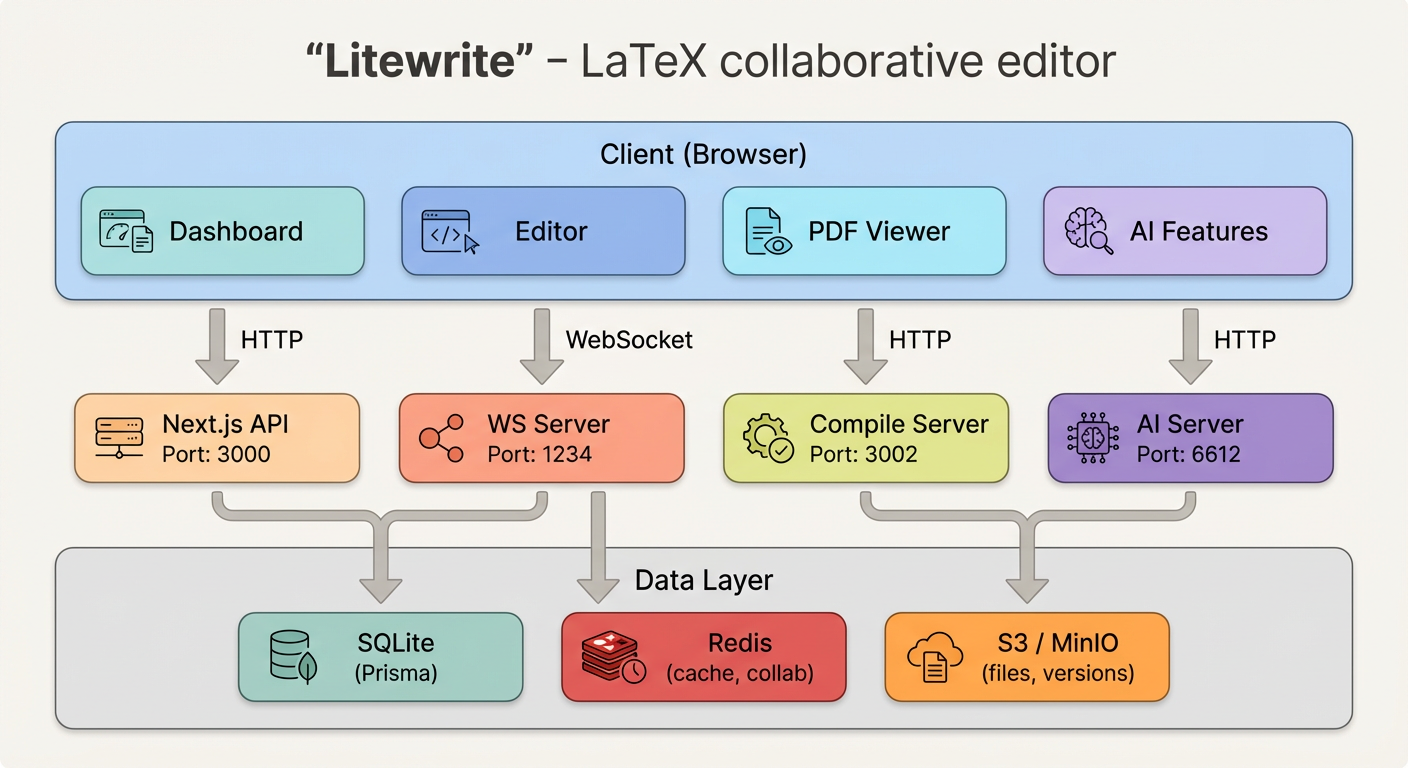
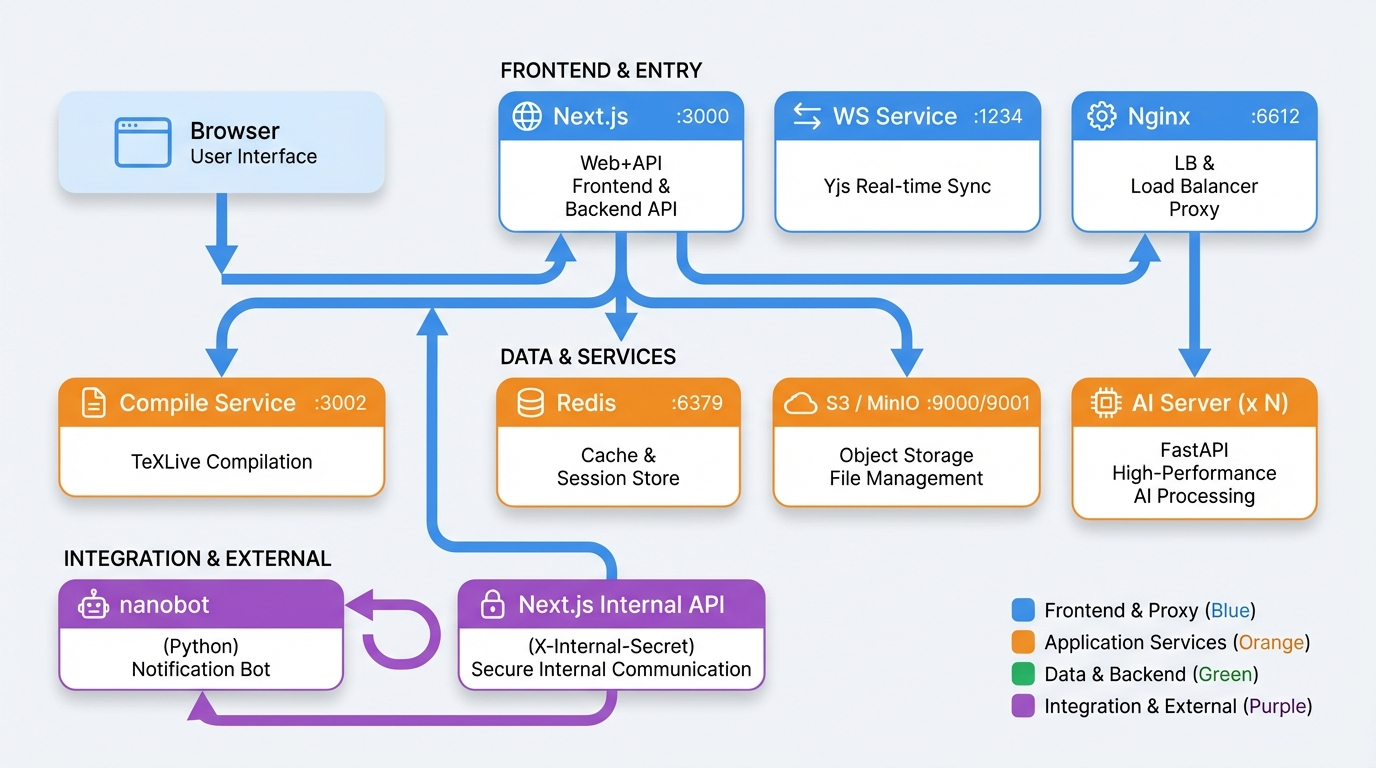
docs: replace ASCII diagrams with images, add nanobot demo GIF and polish
- Replace all ASCII architecture diagrams with actual images
  (Architecture.png, AIServer.png, MainAgent.png, DeepResearch.png, nanobot.png)
- Add nanobot-demo.gif moved to below Features as hero content
- Simplify News section to bullet list with actual dates
- Add Contributors section with contrib.rocks widget
- Add Star History chart with dark/light theme support
- Add visitor badge and updated footer
- Remove License section (covered by badge), streamline ending

diff --git a/README.md b/README.md
@@ -40,23 +40,11 @@
 
 ---
 
-<!-- nanobot demo GIF — eye-catching hero content -->
-<p align="center">
-  <img src="public/screenshots/nanobot-demo.gif" alt="nanobot Demo — Chat with your LaTeX projects from Telegram" width="720" />
-</p>
-<p align="center"><em>💬 Chat with your LaTeX projects from Telegram — edit, compile, and get PDFs in seconds</em></p>
-
----
-
 ## 📰 News
 
-| Date | Update |
-|------|--------|
-| **2025-02** | 🤖 **nanobot integration** — Manage LaTeX projects from Telegram & Feishu via AI assistant ([setup guide](nanobot/DEPLOYMENT.md)) |
-| **2025-02** | 🧠 **Agent Mode** — Full autonomous editing with ReAct-style agent, SubAgent delegation, and multi-file edits |
-| **2025-01** | 🔍 **Deep Research** — Multi-iteration arXiv + web search with structured report generation and BibTeX |
-| **2025-01** | ⚡ **TAP Completion** — Ghost-text AI completion as you type, Copilot-like experience for LaTeX |
-| **2024-12** | 🚀 **Litewrite v1.0** — Initial open-source release with real-time collaboration, LaTeX compilation, and AI chat |
+
+- **2026-02-10** 🤖 **nanobot integration** — Manage projects from Telegram & Feishu via AI assistant ([setup guide](nanobot/DEPLOYMENT.md))
+- **2026-02-03** 🎉 **Litewrite v1.0.7** — Initial open-source release with real-time collaboration, LaTeX compilation, and AI chat
 
 ---
 
@@ -70,7 +58,14 @@
 
 🔍 **Deep Research** — AI conducts in-depth research and auto-generates reports. Research while you write!
 
-📱 **nanobot** — Chat with your LaTeX projects from Telegram or Feishu. Compile, edit, and manage — all from your phone!
+📱 **nanobot** — Chat with your projects from IM apps. Compile, edit, and manage — all from your phone!
+
+---
+
+<p align="center">
+  <img src="public/screenshots/nanobot-demo.gif" alt="nanobot Demo — Chat with your projects from Telegram" width="720" />
+</p>
+<p align="center"><em>💬 Chat with your projects from IM apps</em></p>
 
 ---
 
@@ -127,42 +122,9 @@
 
 Litewrite is a microservices architecture with 6 core services communicating over a Docker network.
 
-<!-- TODO: Replace with architecture image -->
 <p align="center">
   <img src="public/Architecture.png" alt="Litewrite Architecture" width="800" />
 </p>
-
-```
-                                ┌──────────────┐
-                                │   Browser    │
-                                └──────┬───────┘
-                                       │
-                          ┌────────────┼────────────┐
-                          │            │            │
-                          ▼            ▼            ▼
-                    ┌──────────┐ ┌──────────┐ ┌──────────┐
-                    │ Next.js  │ │    WS    │ │  Nginx   │
-                    │  :3000   │ │  :1234   │ │  :6612   │
-                    │ Web+API  │ │ Yjs Sync │ │ LB Proxy │
-                    └────┬─────┘ └──────────┘ └────┬─────┘
-                         │                         │
-              ┌──────────┼──────────┐              │
-              │          │          │              │
-              ▼          ▼          ▼              ▼
-        ┌──────────┐ ┌──────┐ ┌──────────┐  ┌──────────┐
-        │ Compile  │ │Redis │ │  S3/MinIO │  │AI Server │
-        │  :3002   │ │:6379 │ │:9000/9001│  │  (x N)   │
-        │ TeXLive  │ │      │ │          │  │  FastAPI  │
-        └──────────┘ └──────┘ └──────────┘  └──────────┘
-
-        ┌──────────┐
-        │ nanobot  │──► Telegram / Feishu
-        │ (Python) │◄── User Messages
-        └────┬─────┘
-             │
-             ▼
-        Next.js Internal API (X-Internal-Secret)
-```
 
 | Service | Port | Technology | Role |
 |---------|------|------------|------|
@@ -181,26 +143,9 @@ Litewrite is a microservices architecture with 6 core services communicating ove
 
 Litewrite's AI capabilities are powered by a modular Agent system built on Python FastAPI. The architecture follows a **MainAgent + SubAgent** orchestration pattern with a unified Tool layer.
 
-<!-- TODO: Replace with AI architecture image -->
-
-```
-┌─────────────────────────────────────────────────────────────────────┐
-│                         AI Server (FastAPI)                         │
-├─────────────────────────────────────────────────────────────────────┤
-│                                                                     │
-│  ┌─────────────┐   ┌─────────────┐   ┌─────────────────────────┐   │
-│  │     TAP     │   │Deep Research│   │     Agent System        │   │
-│  │ Completion  │   │   Service   │   │  (Ask / Agent Mode)     │   │
-│  └──────┬──────┘   └──────┬──────┘   └───────────┬─────────────┘   │
-│         │                 │                      │                  │
-│         ▼                 ▼                      ▼                  │
-│  ┌─────────────────────────────────────────────────────────────┐   │
-│  │                      LLM Router (OpenRouter)                 │   │
-│  │            Multi-model support: GPT-4o, Claude, Gemini       │   │
-│  └─────────────────────────────────────────────────────────────┘   │
-│                                                                     │
-└─────────────────────────────────────────────────────────────────────┘
-```
+<p align="center">
+  <img src="public/AIServer.png" alt="Litewrite AI Architecture" width="800" />
+</p>
 
 ### ⚡ TAP Completion (Type-Ahead Prediction)
 
@@ -217,32 +162,9 @@ Ghost-text AI completion as you type, similar to GitHub Copilot.
 
 The Agent system uses a **ReAct-style** loop with tool calling for complex writing tasks.
 
-<!-- TODO: Replace with Agent architecture image -->
-
-```
-┌──────────────────────────────────────────────────────────────────┐
-│                          MainAgent                                │
-│  ┌────────────────────────────────────────────────────────────┐  │
-│  │  System Prompt + <context> + <goal> + <execution_log>      │  │
-│  └────────────────────────────────────────────────────────────┘  │
-│                              │                                    │
-│                              ▼                                    │
-│  ┌────────────────────────────────────────────────────────────┐  │
-│  │                    Agent Loop (ReAct)                       │  │
-│  │  1. Reason: Analyze context and decide next action          │  │
-│  │  2. Act: Call tool (read/edit/search/plan/task)             │  │
-│  │  3. Observe: Process tool result                            │  │
-│  │  4. Repeat until done                                       │  │
-│  └────────────────────────────────────────────────────────────┘  │
-│                              │                                    │
-│          ┌───────────────────┼───────────────────┐               │
-│          ▼                   ▼                   ▼               │
-│  ┌──────────────┐   ┌──────────────┐   ┌──────────────┐          │
-│  │  SubAgent:   │   │  SubAgent:   │   │  SubAgent:   │          │
-│  │  EditAgent   │   │  ReadAgent   │   │ResearchAgent │          │
-│  └──────────────┘   └──────────────┘   └──────────────┘          │
-└──────────────────────────────────────────────────────────────────┘
-```
+<p align="center">
+  <img src="public/MainAgent.png" alt="Litewrite Main Agent Architecture" width="800" />
+</p>
 
 **Mode-based Tool Availability:**
 
@@ -267,38 +189,9 @@ The Agent system uses a **ReAct-style** loop with tool calling for complex writi
 
 Multi-source research with automatic report generation.
 
-<!-- TODO: Replace with Deep Research image -->
-
-```
-User Query
-    │
-    ▼
-┌─────────────────────────────────┐
-│     Parallel Search Stage       │
-│  ┌───────────┐  ┌───────────┐  │
-│  │  arXiv    │  │   Web     │  │
-│  │  Search   │  │  Search   │  │
-│  └─────┬─────┘  └─────┬─────┘  │
-│        └──────┬───────┘        │
-└───────────────┼────────────────┘
-                ▼
-┌─────────────────────────────────┐
-│    Knowledge Gap Analysis       │
-│  - Assess current knowledge     │
-│  - Decide if follow-up needed   │
-│  - Up to N iterations           │
-└───────────────┬─────────────────┘
-                ▼
-┌─────────────────────────────────┐
-│   Report Generation (Streaming) │
-│  - Structured outline           │
-│  - Section-by-section writing   │
-│  - Inline citations             │
-└───────────────┬─────────────────┘
-                ▼
-        Research Report
-     (with BibTeX references)
-```
+<p align="center">
+  <img src="public/DeepResearch.png" alt="Litewrite Deep Research" width="800" />
+</p>
 
 ### 🔧 Unified Tool Layer
 
@@ -330,21 +223,9 @@ nanobot is an AI assistant that connects messaging platforms (Telegram, Feishu/L
 
 <!-- TODO: Replace with nanobot architecture image -->
 
-```
-┌──────────┐     Long Polling    ┌──────────────┐   Internal API    ┌──────────────┐
-│ Telegram │ ◄─────────────────► │              │ ────────────────► │  Litewrite   │
-│  User    │                     │   nanobot    │                   │  Web (Next)  │
-├──────────┤     WebSocket       │  (Python)    │                   └──────┬───────┘
-│  Feishu  │ ◄─────────────────► │              │                          │
-│  User    │                     └──────┬───────┘                          │
-└──────────┘                            │                                  │
-                                        │ LLM API                         │ Compile
-                                        ▼                                  ▼
-                                  ┌──────────┐                      ┌──────────────┐
-                                  │ OpenRouter│                      │   Compile    │
-                                  │  / LLM   │                      │   Server     │
-                                  └──────────┘                      └──────────────┘
-```
+<p align="center">
+  <img src="public/nanobot.png" alt="Litewrite nanobot Architecture" width="800" />
+</p>
 
 ### 🛠 Key Capabilities
 
@@ -680,6 +561,12 @@ git push origin feature/your-feature
 # Open a Pull Request
 ```
 
+### Contributors
+
+<a href="https://github.com/HKUDS/litewrite/graphs/contributors">
+  <img src="https://contrib.rocks/image?repo=HKUDS/litewrite&max=100&columns=12&updated=20260210" alt="Contributors" />
+</a>
+
 ---
 
 ## 🙏 Acknowledgments
@@ -697,16 +584,21 @@ Litewrite is built on the shoulders of giants:
 
 ---
 
-## 📄 License
+## ⭐ Star History
 
-This project is licensed under **AGPL-3.0-only**. See [`LICENSE`](./LICENSE) for details.
-
-**TL;DR:** You can use, modify, and distribute this software, but if you run a modified version as a service, you must release your source code.
-
----
+<div align="center">
+  <a href="https://star-history.com/#HKUDS/litewrite&Date">
+    <picture>
+      <source media="(prefers-color-scheme: dark)" srcset="https://api.star-history.com/svg?repos=HKUDS/litewrite&type=Date&theme=dark" />
+      <source media="(prefers-color-scheme: light)" srcset="https://api.star-history.com/svg?repos=HKUDS/litewrite&type=Date" />
+      <img alt="Star History Chart" src="https://api.star-history.com/svg?repos=HKUDS/litewrite&type=Date" style="border-radius: 15px; box-shadow: 0 0 30px rgba(0, 217, 255, 0.3);" />
+    </picture>
+  </a>
+</div>
 
 <p align="center">
-  Made with ❤ by the Litewrite Team
+  <em> Thanks for visiting ✨ litewrite!</em><br><br>
+  <img src="https://visitor-badge.laobi.icu/badge?page_id=HKUDS.litewrite&style=for-the-badge&color=00d4ff" alt="Views">
 </p>
 
 <p align="center">
